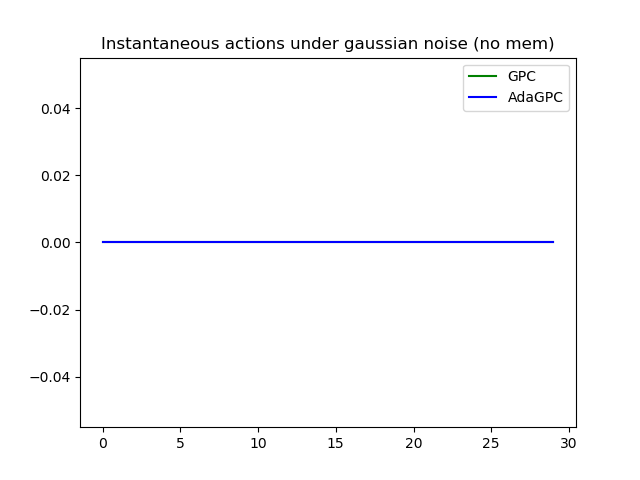
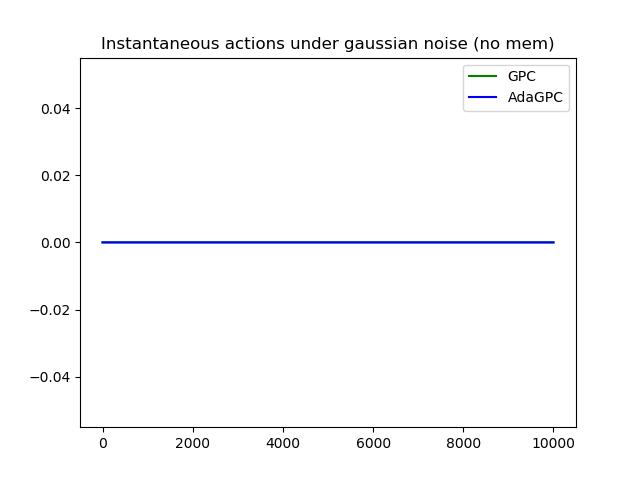
recent changes using math

diff --git a/examples/agents/memTest.py b/examples/agents/memTest.py
@@ -18,78 +18,79 @@ import matplotlib.pyplot as plt
 cummean = lambda x: np.cumsum(x)/(np.ones(T) + np.arange(T))
 n, m = 2, 1
 
+np.seterr('raise')
+
 def get_errs(T, controller, A, B, noise):
-    state = jnp.zeros((n, 1))
+    states = np.zeros((T, n))
     errs = np.zeros((T, 1))
-    actions = np.zeros((T,1))
+    actions = np.zeros((T,m))
     
     for i in tqdm(range(1, T)):
+        print(actions[i-1])
+        print("state: ")
+        print(states[i-1])
         try:
-            action = controller(state, A, B)
+            actions[i] = controller(states[i-1], A, B, lam = 2)
         except:
-            action = controller(state)
-        actions[i] = action
+            actions[i] = controller(states[i-1], lam = 2)
             
         if(noise=="normal"):
-            state = A @ state + B @ action #+ np.random.normal(0, 0.2, size=(n,1)) # gaussian noise
+            states[i] = A @ states[i-1] + B @ (actions[i] + np.array(np.random.normal(0, 0.2, size=(m,1)))[0]) # gaussian noise
         else:
-            state = A @ state + B @ action #+ np.random.normal(0, 0.2, size=(n,1)) *(i%300 < 150) + 0.4 * jnp.sin(i) *(i%300>= 150) # add sine noise every 150 steps
+            states[i] = A @ states[i-1] + B @ (action[i] + np.random.normal(0, 0.2, size=(m,1)) *(i%300 < 150) + 0.4 * jnp.sin(i) *(i%300>= 150)) # add sine noise every 150 steps
         
         if(i % T//2 == 0): # switch system
-            A,B = jnp.array([[1.,1.5], [0,1.]]), jnp.array([[0],[0.9]])
+            A,B = np.array([[1.,1.5], [0,1.]]), np.array([[0],[0.9]])
         
-        errs[i] = (jnp.linalg.norm(state)+jnp.linalg.norm(action))
+        errs[i] = (np.linalg.norm(states[i])+np.linalg.norm(actions[i]))
     
-    return errs, actions
+    return states, errs, actions
 
-T = 30
+T = 1000
 
-A,B = jnp.array([[1.,.5], [0,1.]]), jnp.array([[0],[1.2]])
+A,B = np.array([[1.,.5], [0,1.]]), np.array([[0],[1.2]])
+
+# A = np.array([[0, 1, 0, 0, 0], [1, 2, 3, 4, 5], [0, 0, 0, 1, 0], [1,1, 1, 1, 1], [0,1,0,1,0]])
+# B = np.array([[0, 0, 0], [1, 0, 0], [0, 0, 0], [0, 1, 0], [0, 0, 1]])
 
 ada = Adaptive(T, base_controller=GPC, A=A, B=B)
 gpc = GPC(A, B)
 mem = Mem(T, A, B)
 
-mem_errs, m_acts = get_errs(T, mem, A, B, "normal")
+mem_state, mem_errs, m_acts = get_errs(T, mem, A, B, "normal")
 print("Memory incurs ", np.mean(mem_errs), " loss under gaussian iid noise")
 
-gpc_errs, g_acts = get_errs(T, gpc, A, B, "normal")
-print("GPC incurs ", np.mean(gpc_errs), " loss under gaussian iid noise")
+# gpc_state, gpc_errs, g_acts = get_errs(T, gpc, A, B, "normal")
+# print("GPC incurs ", np.mean(gpc_errs), " loss under gaussian iid noise")
 
-ada_errs, a_acts = get_errs(T, ada, A, B, "normal")
-print("AdaGPC incurs ", np.mean(ada_errs), " loss under gaussian iid noise")
+# ada_errs, a_acts = get_errs(T, ada, A, B, "normal")
+# print("AdaGPC incurs ", np.mean(ada_errs), " loss under gaussian iid noise")
 
-plt.title("Instantenous losses under gaussian iid noise")
-plt.plot(cummean(gpc_errs), "green", label = "GPC")
-plt.plot(cummean(ada_errs), "blue", label = "AdaGPC")
+plt.title("Cumulative mean losses under gaussian iid noise")
+#plt.plot(cummean(gpc_errs), "green", label = "GPC")
+#plt.plot(cummean(ada_errs), "blue", label = "AdaGPC")
 plt.plot(cummean(mem_errs), "red", label = "MemCR")
 plt.legend()
 plt.savefig('gaussianLoss.png')
 plt.clf()
 
 plt.title("Instantaneous actions under gaussian noise")
-plt.plot(g_acts, "green", label = "GPC")
-plt.plot(a_acts, "blue", label = "AdaGPC")
+#plt.plot(g_acts, "green", label = "GPC")
+#plt.plot(a_acts, "blue", label = "AdaGPC")
 plt.plot(m_acts, "red", label = "MemCR")
 plt.legend()
 plt.savefig('gaussianAction.png')
 plt.clf()
 
-plt.title("Instantaneous actions under gaussian noise (no mem)")
-plt.plot(g_acts, "green", label = "GPC")
-plt.plot(a_acts, "blue", label = "AdaGPC")
+plt.title("Instantaneous states under gaussian noise")
+#plt.plot(gpc_state, "green", label = "GPC")
+#plt.plot(ada_errs, "blue", label = "AdaGPC")
+plt.plot(mem_state, "red", label = "Mem")
 plt.legend()
-plt.savefig('gaussianActionRaw.png')
+plt.savefig('gaussianState.png')
 plt.clf()
 
-plt.title("Instantaneous losses under gaussian noise")
-plt.plot(gpc_errs, "green", label = "GPC")
-plt.plot(ada_errs, "blue", label = "AdaGPC")
-plt.plot(mem_errs, "red", label = "Mem")
-plt.legend()
-plt.savefig('gaussianErr.png')
-plt.clf()
-
+''' not doing beyond this for now
 
 # sine noise
 A,B = jnp.array([[1.,.5], [0,1.]]), jnp.array([[0],[1.2]])
@@ -101,15 +102,17 @@ mem = Mem(T, A, B)
 gpc_errs, g_acts = get_errs(T, gpc, A, B, "sine")
 print("GPC incurs ", np.mean(gpc_errs), " loss under intermittent sine noise")
 
-ada_errs, a_acts = get_errs(T, ada, A, B, "sine")
-print("AdaGPC incurs ", np.mean(ada_errs), " loss under intermittent sine noise")
+# ada_errs, a_acts = get_errs(T, ada, A, B, "sine")
+# print("AdaGPC incurs ", np.mean(ada_errs), " loss under intermittent sine noise")
 
 mem_errs, m_acts = get_errs(T, mem, A, B, "sine")
 print("Memory incurs ", np.mean(mem_errs), " loss under intermittent sine noise")
 
 plt.title("Instantanous losses under intermittent sine noise")
 plt.plot(cummean(gpc_errs), "green", label = "GPC")
-plt.plot(cummean(ada_errs), "blue", label = "AdaGPC")
+#plt.plot(cummean(ada_errs), "blue", label = "AdaGPC")
 plt.plot(cummean(mem_errs), "red", label = "MemCR")
 plt.legend()
 plt.savefig('sineLoss.png')
+
+'''

diff --git a/deluca/utils/optimR.py b/deluca/utils/optimR.py
@@ -39,14 +39,15 @@ class optimROBD(object):
         prevFunc = self.hittingCost(prevH, v_tminus)
 
         # building out the yhat sequence
-        self._yhats[t-1, :] = self.robdSub(prevFunc, t-1)
+        self._yhats[t-1, :] = self.robdSub(prevFunc, t-1, v_tminus)
 
+        print("double min")
         vtilde = self.findSetMin(self.doubleFunc(h_t, t), omega_t)
 
         fhatFunc = self.hittingCost(h_t, vtilde)
         self._prevH = h_t
 
-        y_t = self.robdSub(fhatFunc, t)
+        y_t = self.robdSub(fhatFunc, t, vtilde)
 
         return y_t
 
@@ -55,7 +56,8 @@ class optimROBD(object):
         def func(params):
             y = params[:self._d]
             v = params[self._d:]
-            return h_t(y - v) + self._lam * self.cost(t)(y)
+            val = h_t(y - v) + self._lam * self.cost(t)(y)
+            return val
         return func
     
     #TODO: change if necessary
@@ -80,7 +82,9 @@ class optimROBD(object):
         result = minimize(function, x0, method = 'SLSQP', constraints=cons)
         '''
 
-        result = minimize(function, x0, method = 'COBYLA')
+        print("scipy minimize")
+        result = minimize(function, x0, method='Nelder-Mead')
+        
         if result.success:
             fitted_params = np.array(result.x[1]) #want to return v?
             return fitted_params
@@ -97,8 +101,10 @@ class optimROBD(object):
     ''' End to implement here'''
 
     # subroutine for ROBD and optimistic ROBD
-    def robdSub(self, fun, t):
+    def robdSub(self, fun, t, v_tminus):
         vel = self._findMin(fun)
+        print("scipy val: " + str(vel))
+        print("numerical val: " + str(v_tminus))
 
         # below line: find minimum of entire expression with respect to y
         out = self._findMin(self.totalCost(fun, vel, t))

diff --git a/deluca/agents/_mem.py b/deluca/agents/_mem.py
@@ -108,6 +108,7 @@ class Mem(Agent):
         #TODO: add a default value for v_tminus: what happens when t = 0??
 
         ''' changed here to single call '''
+        
         assert self._t < self._T
         if self._t > 0:
             subValue = self._xs[self._t]-np.matmul(self._A, self._xs[self._t - 1])-np.matmul(self._B, self._us[self._t-1])
@@ -118,6 +119,7 @@ class Mem(Agent):
 
             omega = self.getOmega()
 
+            print("solver step")
             # TODO: change the parameters of solver
             self._ys[self._t] = solver.step(v_tminus, func, omega, radius_t, self._t)
 
@@ -159,8 +161,8 @@ class Mem(Agent):
         return self._ys[self._t] - lsum
     
     # takes in state, disturbance radius, qs, lambda
-    def __call__(self, state, radius_t=1, q_t=None, lam=0):
-        if q_t == None:
+    def __call__(self, state, radius_t=1, q_t=-1, lam=0):
+        if q_t == -1:
             q_t = np.ones((self._p+self._T))
         self._xs[self._t, :] = state[0] # add it to the list
         return self.controlAlgo(radius_t, q_t, lam)
